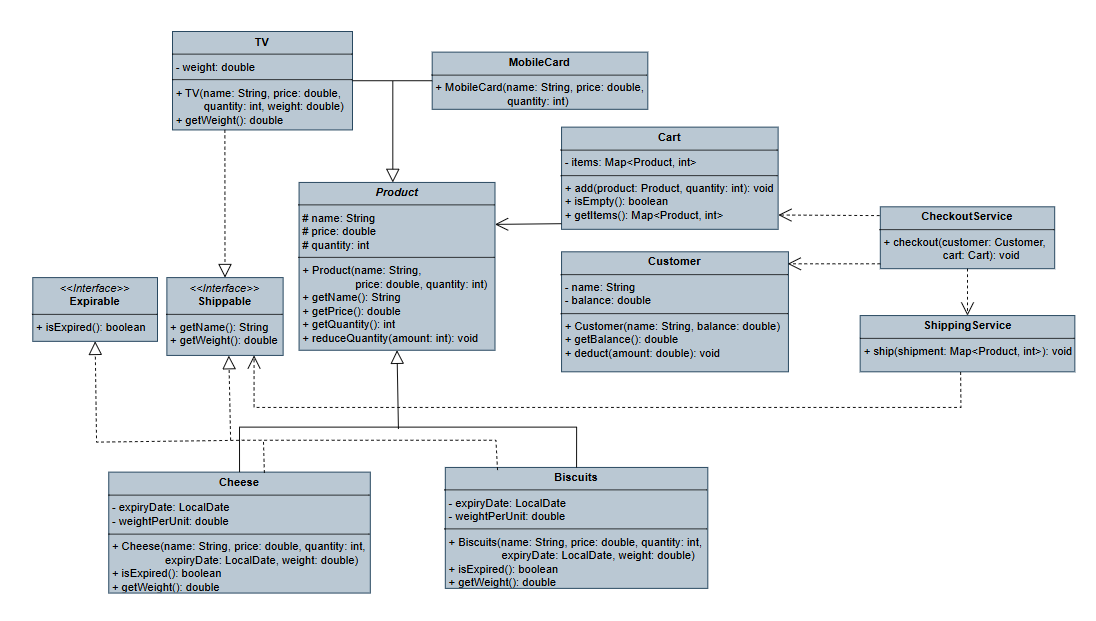
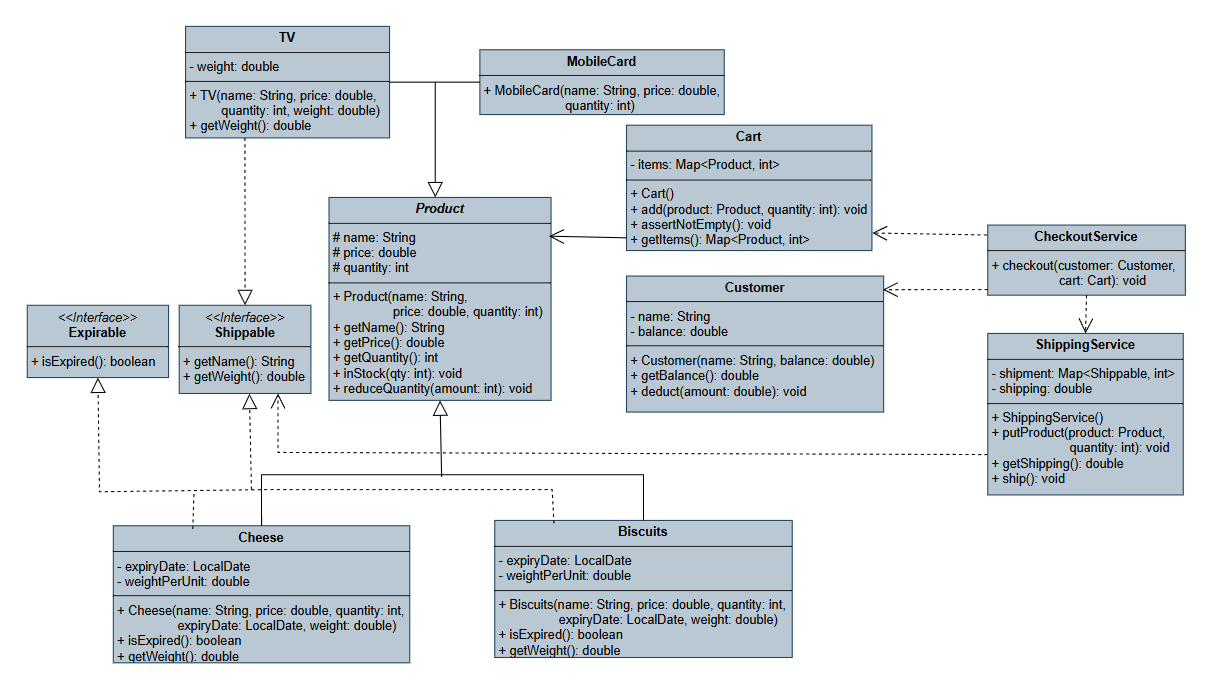
Improve code formatting

Changed region(s): [[0.0, 0.0306, 0.9927, 0.9791], [0.4964, 0.3977, 0.7445, 0.6119]]

diff --git a/src/Product.java b/src/Product.java
@@ -15,14 +15,17 @@ public abstract class Product
     {
         return name;
     }
+
     public double getPrice()
     {
         return price;
     }
+
     public int getQuantity()
     {
         return quantity;
     }
+
     public void inStock(int qty)
     {
         if (qty > getQuantity())
@@ -30,6 +33,7 @@ public abstract class Product
             throw new IllegalStateException(getName() + " is out of stock.");
         }
     }
+
     public void reduceQuantity(int amount)
     {
         this.quantity -= amount;

diff --git a/src/CheckoutService.java b/src/CheckoutService.java
@@ -10,7 +10,6 @@ public class CheckoutService
         double subtotal = 0;
         ShippingService shipment = new ShippingService();
 
-
         for (Map.Entry<Product, Integer> entry : cart.getItems().entrySet())
         {
             Product product = entry.getKey();
@@ -37,7 +36,6 @@ public class CheckoutService
 
         //Print Shipping
         shipment.ship();
-
 
         //Print Receipt
         System.out.println("** Checkout receipt **");

diff --git a/src/MobileCard.java b/src/MobileCard.java
@@ -5,5 +5,4 @@ public class MobileCard extends Product
         super(name, price, quantity);
     }
 
-
 }

diff --git a/src/TV.java b/src/TV.java
@@ -14,5 +14,4 @@ public class TV extends Product implements Shippable
         return weight;
     }
 
-
 }

diff --git a/README.md b/README.md
@@ -30,8 +30,15 @@
 ### **2. Applied Design Patterns**
 
 * **Facade Pattern:**
-    * The `CheckoutService` The checkout process is complex, involving multiple steps: validating the cart, checking each product's validity, checking stock, calculating the subtotal, calculating shipping, verifying customer balance, debiting the amount and updating inventory.
-    * The `CheckoutService` hides all this complexity behind a very simple interface: a single method, `checkout(customer, cart)`. The client does not need to know any of these complex background details.
+  The `CheckoutService` acts as a **facade** that coordinates several **subsystems** involved in the checkout process. These subsystems include:
+
+  - **Cart validation**
+  - **Product validation**
+  - **Inventory checking and updating**
+  - **Shipping calculation and processing**
+  - **Customer balance verification and deduction**
+  - **Receipt generation**
+
 
 
 ### **3. Choice of Data Structures**
@@ -48,6 +55,6 @@
 ![UML Class Diagram for E-commerce System](image/UML.png)
 
 ## Note
-I noticed an unusual number of **clone operations** during the period allocated for solution .  
-This indicates the possibility that others might have used this solution without permission .
+I noticed an unusual number of clone operations during the period allocated for the solution. This indicates the possibility that others might have used this solution without permission.
+[Mohammed Ashraf](https://github.com/mashraf8/Fawry-Internship-Challenge.git)
 
